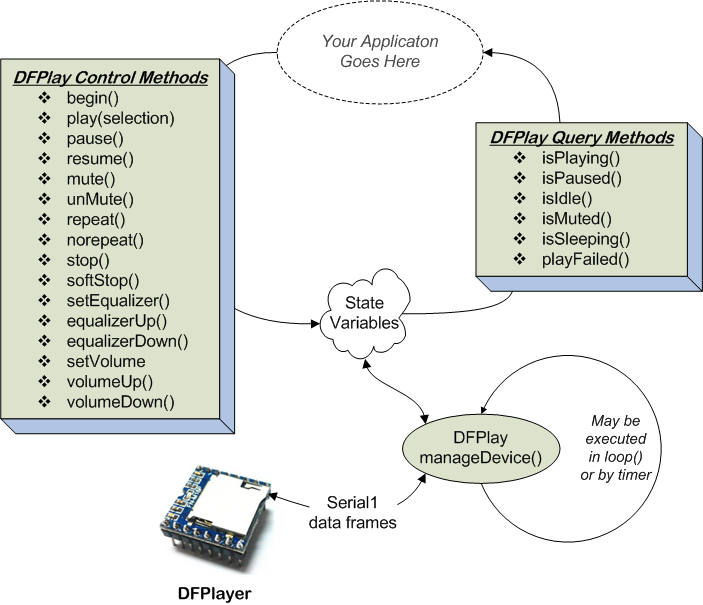
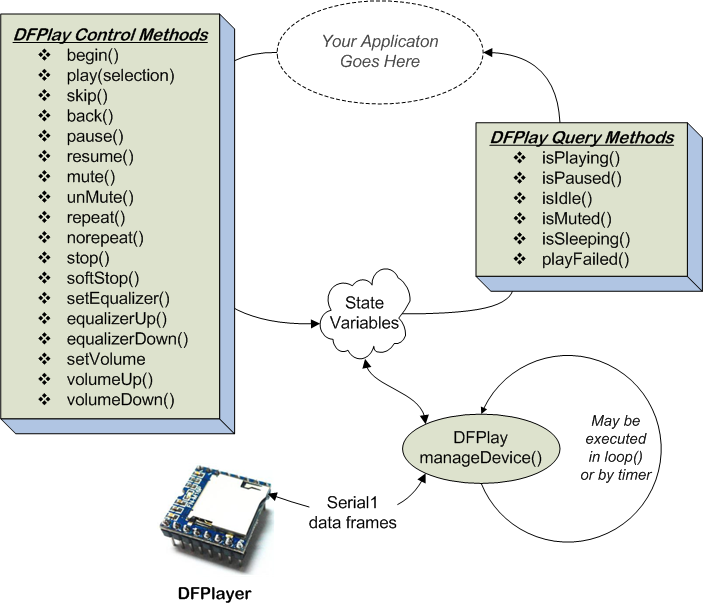
Added documentation for back()

Changed region(s): [[0.0, 0.0, 0.3585, 0.6843]]

diff --git a/README.md b/README.md
@@ -1,7 +1,3 @@
-
-
-
-
 # ***DFPlay***
  ***An Enhanced Library for the DFPlayer***
 
@@ -79,7 +75,9 @@ In this case, the selected tracks are hard-coded, so you will need to modify the
 * Version 0.0.9 has been released for field testing (Particle Platform only) 
 * Version 0.0.10 is a work in progress ...
 	- Arduino support has been added
+	- back() method has been added
 * Release 1 planned for September 30, 2018
-* Please feel free to explore, comment, experiment, test ... whatever. Please post any issues to GitHub.  The author will also field any questions you may have. 
+---
+Please feel free to explore, comment, experiment, test ... whatever. Please post any issues to GitHub.  The author will also field any questions you may have. 
 
 > Written with [StackEdit](https://stackedit.io/).
